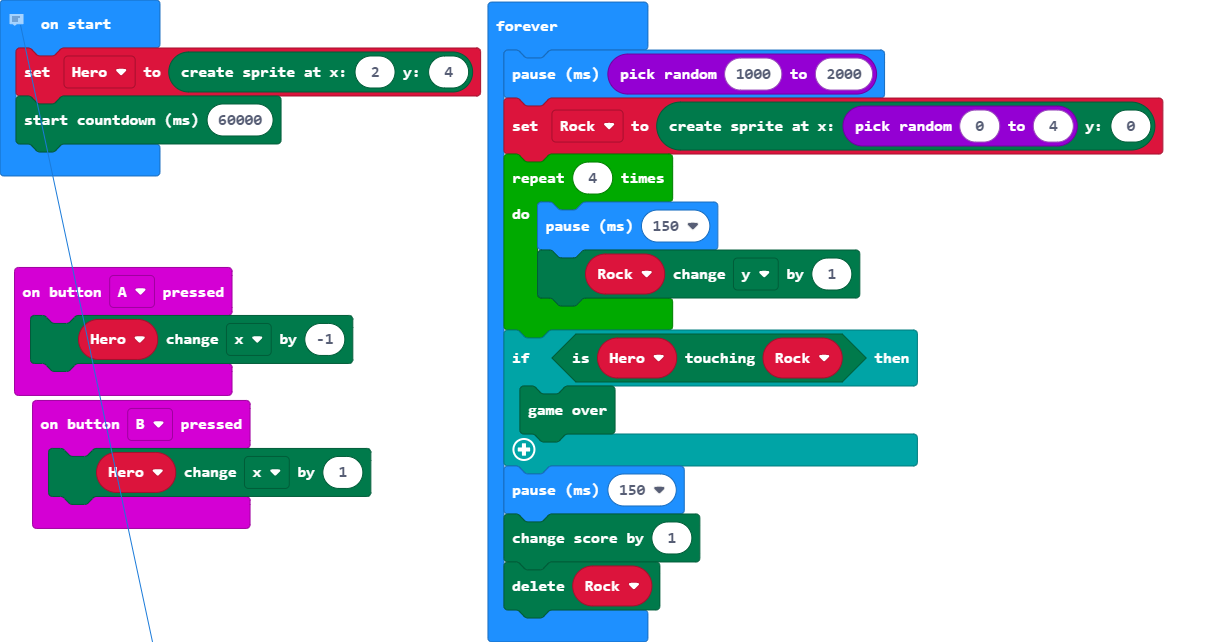
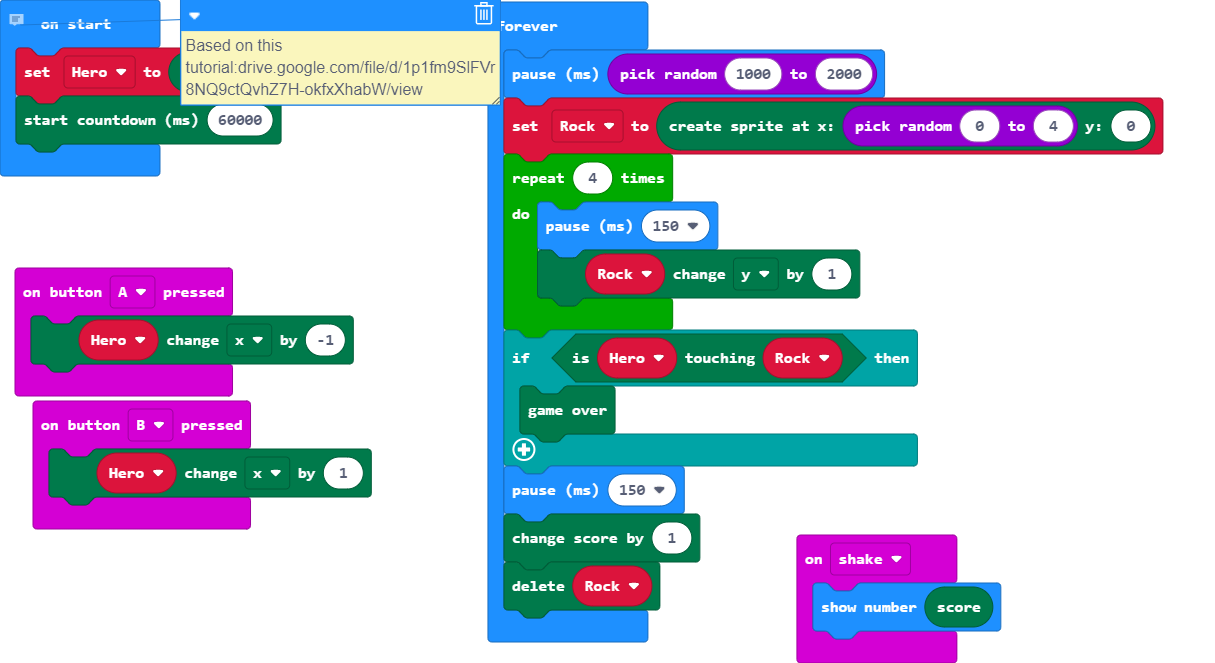
Update main.blocks, main.ts

Changed region(s): [[0.0, 0.0, 0.9745, 1.0], [0.0, 0.3738, 0.3045, 0.8411], [0.6395, 0.7788, 0.8222, 1.0]]

diff --git a/main.ts b/main.ts
@@ -4,6 +4,9 @@ input.onButtonPressed(Button.A, function () {
 input.onButtonPressed(Button.B, function () {
     Hero.change(LedSpriteProperty.X, 1)
 })
+input.onGesture(Gesture.Shake, function () {
+    basic.showNumber(game.score())
+})
 // Based on this tutorial:drive.google.com/file/d/1p1fm9SlFVr8NQ9ctQvhZ7H-okfxXhabW/view
 let Rock: game.LedSprite = null
 let Hero: game.LedSprite = null
